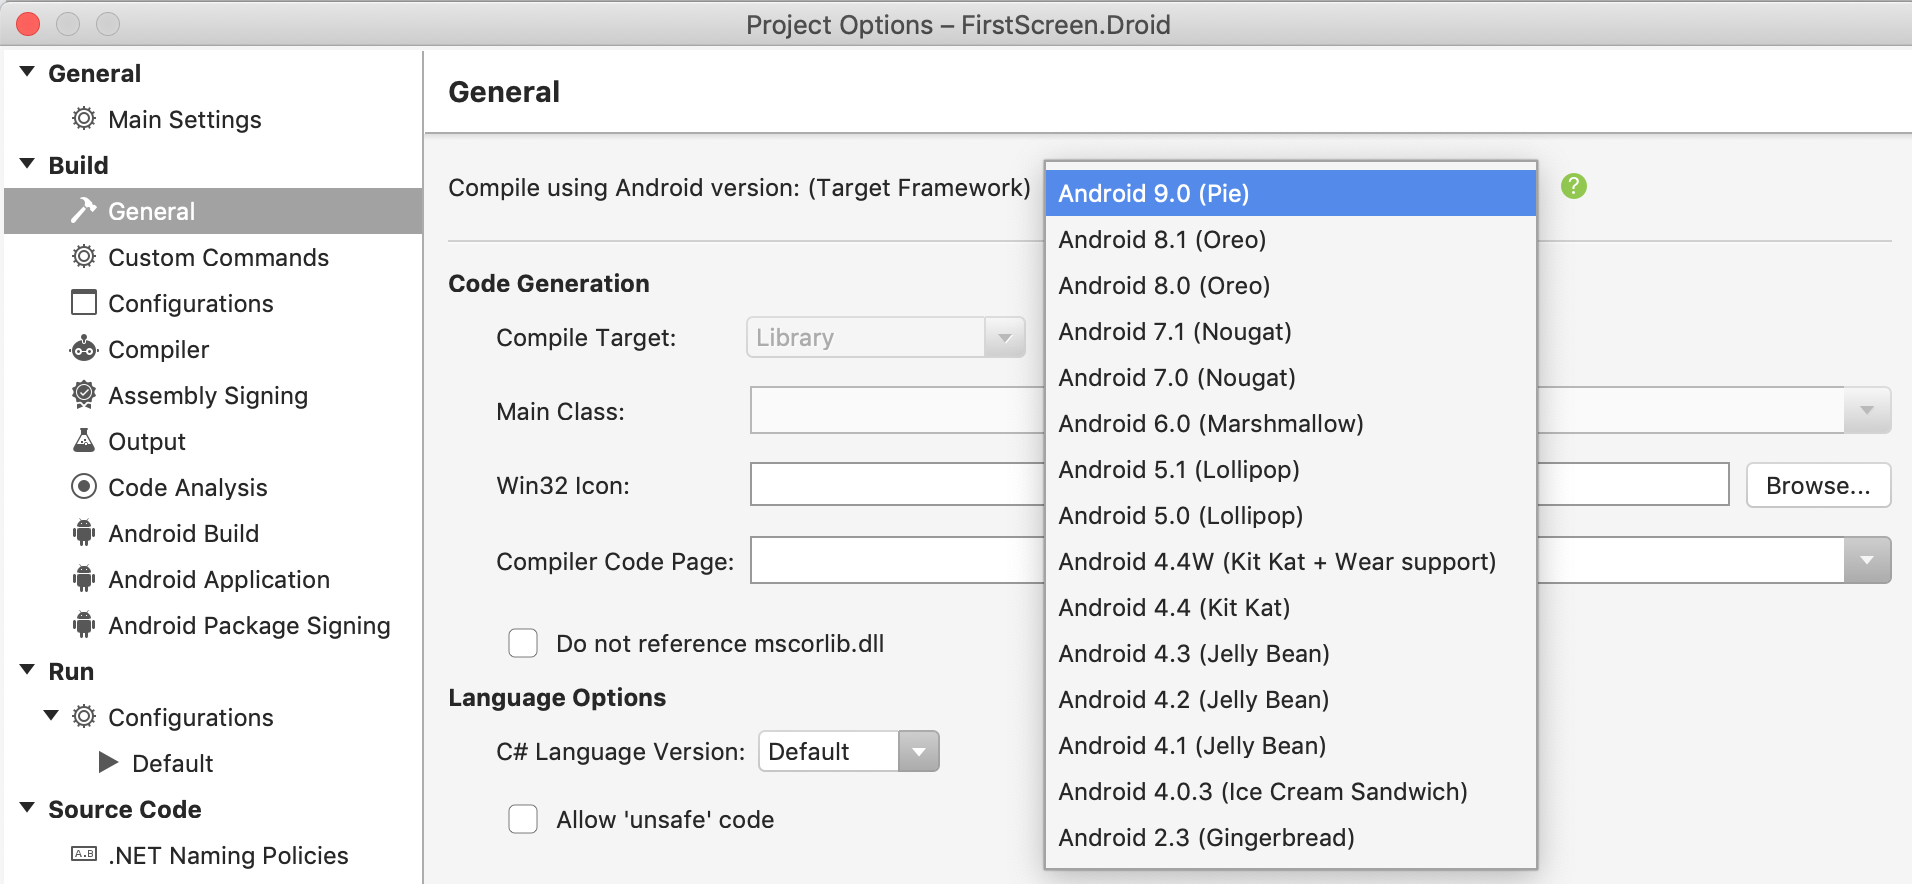
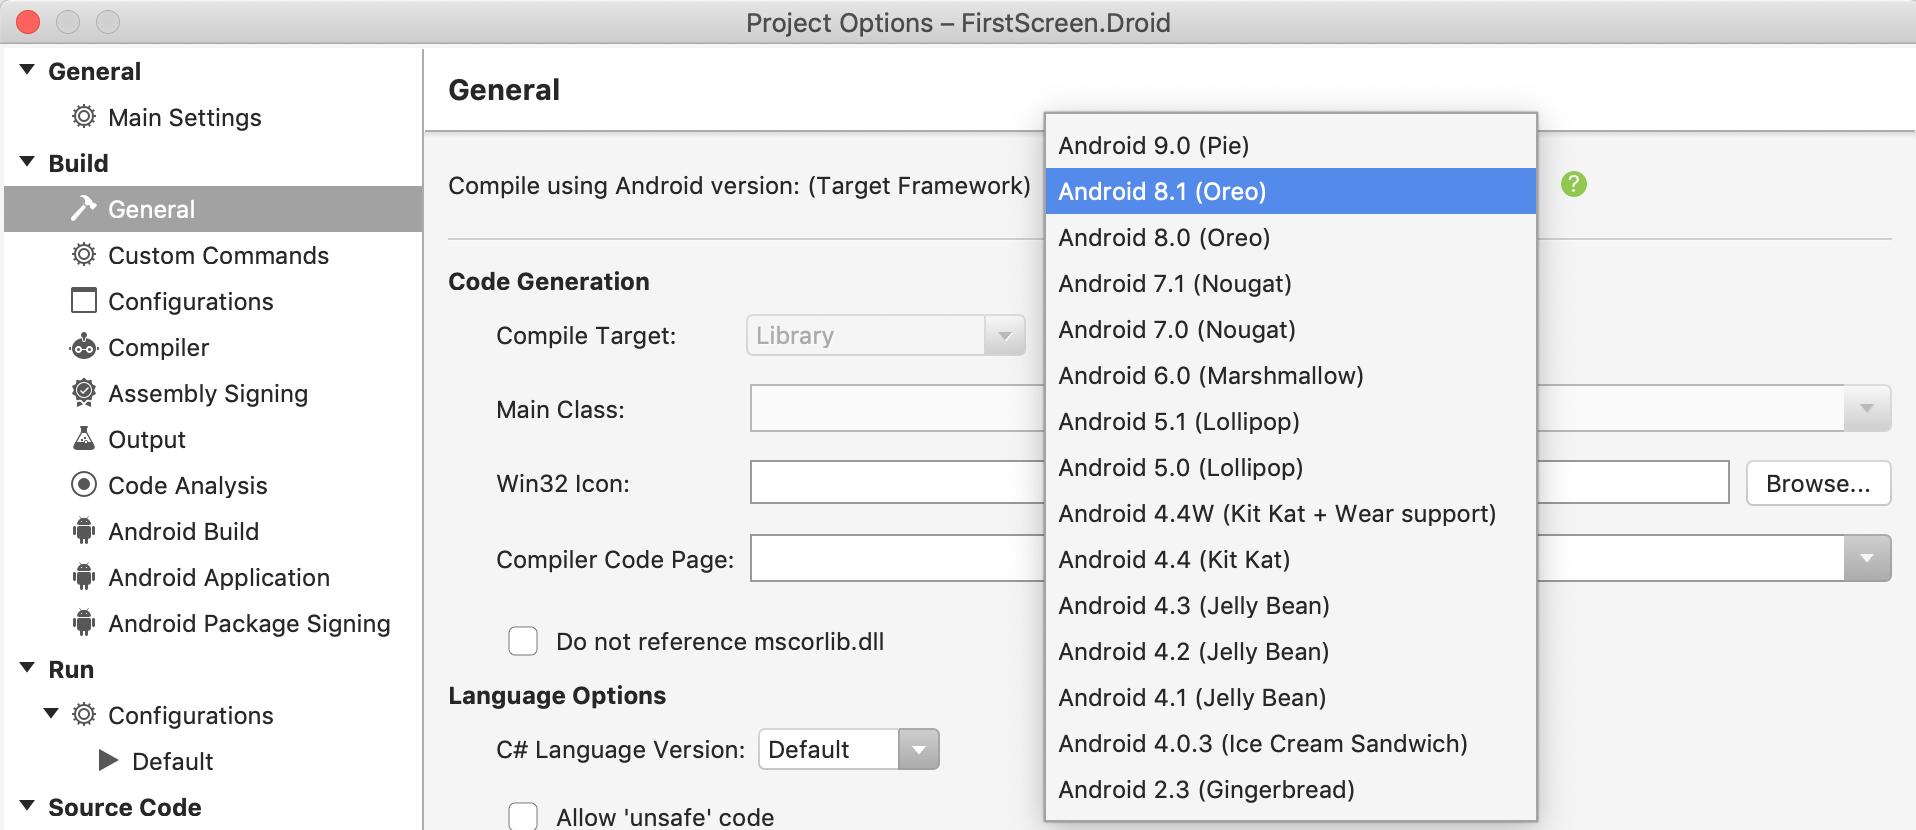
[Docs] WIP, First screen

diff --git a/docs/001-introduction-02-first-screen.md b/docs/001-introduction-02-first-screen.md
@@ -12,17 +12,17 @@ For simplicity, let's assume you have three projects within:
 ![First Screen solution](images/001-Intro-003-FirstScreen-Solution.png)
 
 - *FirstScreen.Core* for the shared code
-	- It has to be compliant to ``.net standard 2.0`` multiplatform spec:
+	- It's compliant to ``.net standard 2.0`` multiplatform spec:
 	![.net standard 2.0](images/001-Intro-004-FirstScreen-NetStandard.png)
 - *FirstScreen.Droid* for the Android code
-	- It has to reference the *FirstScreen.Core* project
-	- Latest target Android SDK is selected:
+	- It has a reference to the *FirstScreen.Core* project
+	- Appropriate target Android SDK is selected. Consider any starting from Android 8.0 (Oreo):
 	![Target Android](images/001-Intro-005-FirstScreen-TargetDroid.png)
-	- Android versions range is set we're going to support. For instance, let's choose 3 recent API levels:
+	- Android versions range is set we're going to support. For our case, we have API Level 21+ support:
 	![Android versions](images/001-Intro-006-FirstScreen-DroidApiLevels.png)
 - *FirstScreen.iOS* for the iOS platform code
-	- It has to reference the *FirstScreen.Core* project
-	- Info.plist file has selected needed Deployment Target, iOS versions range. For instance, iOS 11+:
+	- It has a reference to the *FirstScreen.Core* project
+	- Info.plist file has selected Deployment Target. For instance, iOS 11+:
 	![iOS versions](images/001-Intro-007-FirstScreen-TargetiOS.png)
 
 > It's recommended to use "Droid" suffix for your Android project, instead of "Android" to make life a bit easier for IDE to distinguish our versus Xamarin SDK namespaces
@@ -34,19 +34,18 @@ Our sample app is going to show just a single screen on start, with a basic Prof
 
 ### Adding NuGet Packages
 
-1. To *FirstScreen.Core*: **FlexiMvvm.Lifecycle**
-2. To *FirstScreen.Droid* and *FirstScreen.iOS*: **FlexiMvvm.FullStack**
+| Project | Package |
+| --- | --- |
+| *FirstScreen.Core* | **FlexiMvvm.Lifecycle**
+| *FirstScreen.Droid* | **FlexiMvvm.FullStack**
+| *FirstScreen.iOS* | **FlexiMvvm.FullStack**
 
 > On the time of documentation, FlexiMvvm was in the Preview mode, with "PreRelease" suffixes. Also showing Preview packages option was required to be enabled for NuGet Manager.
 
-These packages bring all required dependencies. Some of them are external:
-- Android project has got **Xamarin.Android.Arch...** and **Xamarin.Android.Support...**
-- iOS project has got **Cirrious.FluentLayout** which is explained a bit later when UI layout development is described
-
 ### View Models
 
-Having all external dependencies added, we may try to build the solution and proceed to implementing some core stuff.
-Let's create a View Model for our Profile form: *FirstScreen.Core* / Presentation / ViewModels:
+Having all needed external dependencies added, we may try to build the solution and proceed to implementing some core stuff.
+Let's create a View Model class for our Profile form, *FirstScreen.Core* / Presentation / ViewModels:
 
 ```cs
 using System.Windows.Input;
@@ -56,30 +55,27 @@ namespace FirstScreen.Core.Presentation.ViewModels
 {
     public class UserProfileViewModel : ViewModel
     {
-        #region Data Properties
-
         private string _firstName;
+        private string _lastName;
+        private string _email;
+        
         public string FirstName
         {
             get => _firstName;
             set => SetValue(ref _firstName, value);
         }
 
-        private string _lastName;
         public string LastName
         {
             get => _lastName;
             set => SetValue(ref _lastName, value);
         }
 
-        private string _email;
         public string Email
         {
             get => _email;
             set => SetValue(ref _email, value);
         }
-
-        #endregion
 
         public ICommand SaveCommand => CommandProvider.Get(Save);
 
@@ -92,7 +88,7 @@ namespace FirstScreen.Core.Presentation.ViewModels
 }
 ```
 
-So, ``FirstName``, ``LastName``, ``Email`` string data properties are defined to observe values entered by user.
+So, ``FirstName``, ``LastName``, ``Email`` string Data Properties are defined to observe values entered by user.
 
 We see here ``ViewModel`` used as the base class.
 This is the FlexiMvvm's cross-platform entry to the proper lifecycle and UI changes observation mechanisms. ``ViewModel`` must be used as a root of the hierarchy of our View Models.
@@ -101,23 +97,55 @@ To recap, when adopting MVVM we create View Models which implement standard ``IN
 base ``ViewModel`` type provided by FlexiMvvm is used, therefore child View Model inherits the appropriate ``INotifyPropertyChanged`` implementation. Just to engage it, we have added ``SetValue()`` methods in the Data Properties' setters - the ``PropertyChanged`` event will be invoked automatically when needed, bringing Data Bindings to life.
 
 Also ``SaveCommand`` is added and used to call the ``Save()`` method when the user taps such button on the screen.
-As we will see later, such ``ICommand`` driven handlers is a widely used approach across .net apps development introducing some extra advantages. Use of Commands is considered as a **recommended** way of user events handling.
+As we will see later, such ``ICommand`` driven handlers is a widely used approach across .net apps development introducing some extra advantages along with Data Bindings. Use of Commands is considered as a **recommended** way of user events handling.
 To simplify the code, FlexiMvvm provides useful ``CommandProvider`` to setup Commands in different ways. Later we will review it in details.
 
-### Initialization
+### Initialization at the minimum
 
-In a minimalistic scenario when we have no specific application initialization procedure, the only thing FlexiMvvm should know about is which View Models we're going to use through the app. So we need to register our newly coded ``UserProfileViewModel`` and show how to instantiate it.
+In the tutorial we have no specific application initialization procedure, the only thing FlexiMvvm should know about is which View Models we're going to use through the app. So we need to register our newly coded ``UserProfileViewModel`` and show how to instantiate it. 
+For that, FlexiMvvm introduces ``Bootstrappers``: types which are capable to initialize their related module. In our case we have 3 such modules: *Core*, *iOS App* and *Android App*. Each of them should have own bootstrapper.
 
-TBD
+For the tutorial's purposes it's enough to add a bootstrapper for *Core* only. Let's add a new type, *FirstScreen.Core* / Bootstrappers:
+```cs
+using FirstScreen.Core.Presentation.ViewModels;
+using FlexiMvvm.Bootstrappers;
+using FlexiMvvm.Ioc;
+using FlexiMvvm.ViewModels;
 
-### Lifecycle
+namespace FirstScreen.Core.Bootstrappers
+{
+    public class CoreBootstrapper : IBootstrapper
+    {
+        public void Execute(BootstrapperConfig config)
+        {
+            var container = new SimpleIoc();
+            container.Register(() => new UserProfileViewModel());
 
-TBD
+            ViewModelProvider.SetFactory(new DependencyProviderViewModelFactory(container));
+        }
+    }
+}
+
+```
+
+This type implements the single ``IBootstrapper``'s ``Execute()`` method, ignoring its ``config`` parameter for now - Configuration part as well as more sophisticated and real life ready bootstrapping approach will be revisited in details later.
+
+``SimpleIoc`` is available as an out-of-the-box Inversion of Control (IoC) container, to hold dependencies and provide their instances on demand. **No Reflection** is used by FlexiMvvm to automate dependencies resolution. All the instantiation logic is provided by us explicitly via the ``Register()`` method. For now we have just a single registration entry, our ``UserProfileViewModel``.
+
+> On mobile, performance and application start time specifically are pretty critial qualities. ``SimpleIoc`` is good on that. It's recommended though not mandatory - any container may be involved instead.
+
+Then we use ``ViewModelProvider`` which is central for View Models provisioning and leverage existing factory passed in, ``DependencyProviderViewModelFactory``. It gets our container ready with the registered View Model.
+
+The only thing is left is to call this Bootstrapper when the app is loading, let's go ahead and create some iOS and Android things.
 
 ### Views
 
 TBD
 
+
+### Lifecycle
+
+TBD
 
 ---
 

diff --git a/docs/001-introduction-01-structure.md b/docs/001-introduction-01-structure.md
@@ -6,25 +6,22 @@
 
 ### Core vs Platform
 
-Let's recap that we have different project types in our Visual Studio solution.
-Typically we select appropriate dependencies to add to our solution projects:
+For tutorials simplicity, let's define just 2 project types for our Visual Studio solutions.
 - In *Some.Product.Core* project which we traditionally name where code is shared between the mobile platforms, we define common abstractions, add View Models with Application Services like Navigation, Validation, Exception Handling, Connectivity, and so on.
-- In *Some.Product.iOS* and *Some.Product.Droid* platform projects, all the mobile specific code is settled (View Controllers, Cell Views, Activities, Fragments, mobile native services, whatever else). And these projects have references to the *Some.Product.Core*.
+- In *Some.Product.iOS* and *Some.Product.Droid* platform projects, all the mobile specific code is settled (View Controllers, Cell Views, Activities, Fragments, mobile native services, whatever else). These projects have references to the *Some.Product.Core*.
 
 ![Simple projects structure](images/001-Intro-001-Projects-Simple.png)
-
-But going further with a more sophisticated scenario, application architecture may introduce several explicit layers to deal with the complexity, like this:
-
-![Advanced projects structure](images/001-Intro-002-Projects-Domain.png)
 
 As FlexiMvvm is modular in nature and has several Nuget packages which cover specific functionality and do depend on "Core" or platform projects, we'll review where FlexiMvvm works best and which NuGet packages are suitable.
 
 ### NuGet Packages
 
+> On the time of documentation, FlexiMvvm was in the Preview mode, with "PreRelease" suffixes in the titles.
+
 | Package                      | Solution Projects to add | Description |
 | ---                          | --- | --- |
-| **FlexiMvvm.Lifecycle**      | Core (Presentation layer) | One of the most important pieces which enables MVVM adoption and proper navigation approach on iOS and Android, leveraging native lifecycle specifics. Needed on common and platform code. |
-| **FlexiMvvm.FullStack**      | iOS App,  Android App | This package is suited for platform-dependent projects bringing everything needed there |
+| **FlexiMvvm.Lifecycle**      | Core | One of the most important pieces which enables MVVM adoption and proper navigation approach on iOS and Android, leveraging native lifecycle specifics. Needed on common and platform code. |
+| **FlexiMvvm.FullStack**      | iOS and Android Apps | This package is suited for platform-dependent projects bringing everything needed there |
 | FlexiMvvm.Bindings           | - | Automatically added as a dependency by FlexiMvvm.FullStack, adding Data Bindings support in terms of MVVM pattern adoption |
 | FlexiMvvm.Essentials         | - | Automatically added as a dependency by FlexiMvvm.Lifecycle or FlexiMvvm.FullStack, contains important stuff which provides typical but time consuming implementations |
 | FlexiMvvm.Common             | - | Automatically added as a dependency by FlexiMvvm.Lifecycle or FlexiMvvm.FullStack, contains shared building blocks |

diff --git a/docs/index.md b/docs/index.md
@@ -1,7 +1,7 @@
 # CONTENTS
 
 - [INTRODUCTION](index.md)
-	- [FlexiMvvm Structure](001-introduction-01-strucuture.md)
+	- [FlexiMvvm Structure](001-introduction-01-structure.md)
 	- [First screen](001-introduction-02-first-screen.md)
 	- [Second Screen with Parameters](001-introduction-03-second-screen-with-parameters.md)
 
@@ -41,4 +41,4 @@ The following aims were pursued while implementing FlexiMvvm:
 
 ---
 
-[Next: FlexiMvvm Structure ...](001-introduction-01-strucuture.md)
+[Next: FlexiMvvm Structure ...](001-introduction-01-structure.md)
